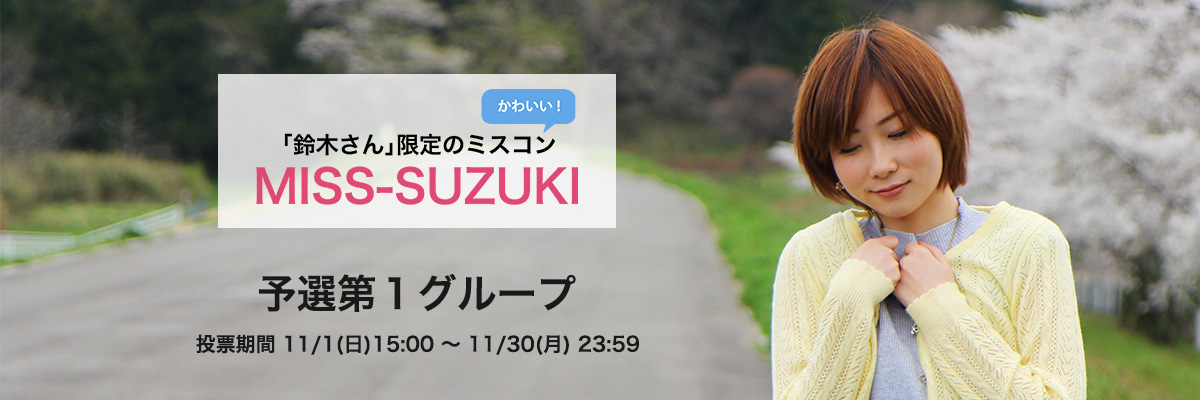
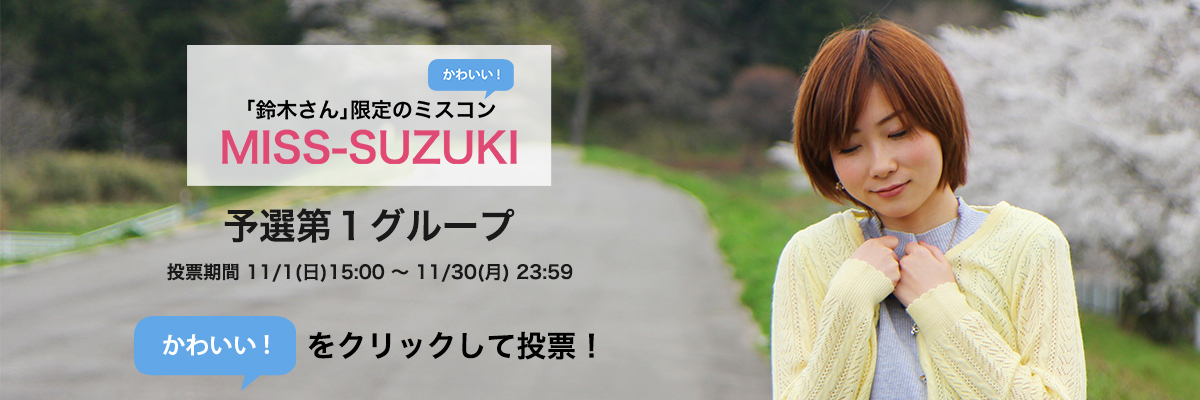
・投票のメインイメージを修正 ・レイアウト崩れを修正

Changed region(s): [[0.1542, 0.09, 0.5242, 0.63], [0.0925, 0.66, 0.555, 0.96]]

diff --git a/app/assets/stylesheets/style.css b/app/assets/stylesheets/style.css
@@ -1176,6 +1176,7 @@ p a{
   margin:0;
   color:#e04974;
   font-size: 24px;
+  margin-bottom: -5px;
 }
 .contestant .profile textarea{
   color:#666;
@@ -1185,17 +1186,18 @@ p a{
   margin: 0 auto;
   height: 50px;
   resize: none;
+  margin-top: 10px;
 }
 .contestant .profile .anchor img{
   position: absolute;
   right:10px;
-  bottom:72px;
+  bottom:82px;
   width:25px;
 }
 .contestant .profile .url img{
   position: absolute;
   right:40px;
-  bottom:70px;
+  bottom:80px;
   width: 120px;
 }
 /*==================== MYPAGE ==========================*/
@@ -2991,6 +2993,7 @@ body {
   margin:0;
   color:#e04974;
   font-size: 24px;
+  margin-bottom: -5px;
 }
 .contestant .profile textarea{
   color:#666;
@@ -3000,17 +3003,18 @@ body {
   height: 50px;
   margin: 0 auto;
   resize: none;
+  margin-top: 10px;
 }
 .contestant .profile .anchor img{
   position: absolute;
   right:10px;
-  bottom:72px;
+  bottom:82px;
   width:25px;
 }
 .contestant .profile .url img{
   position: absolute;
   right:40px;
-  bottom:70px;
+  bottom:80px;
   width: 120px;
 }
 /*==================== MYPAGE ==========================*/
